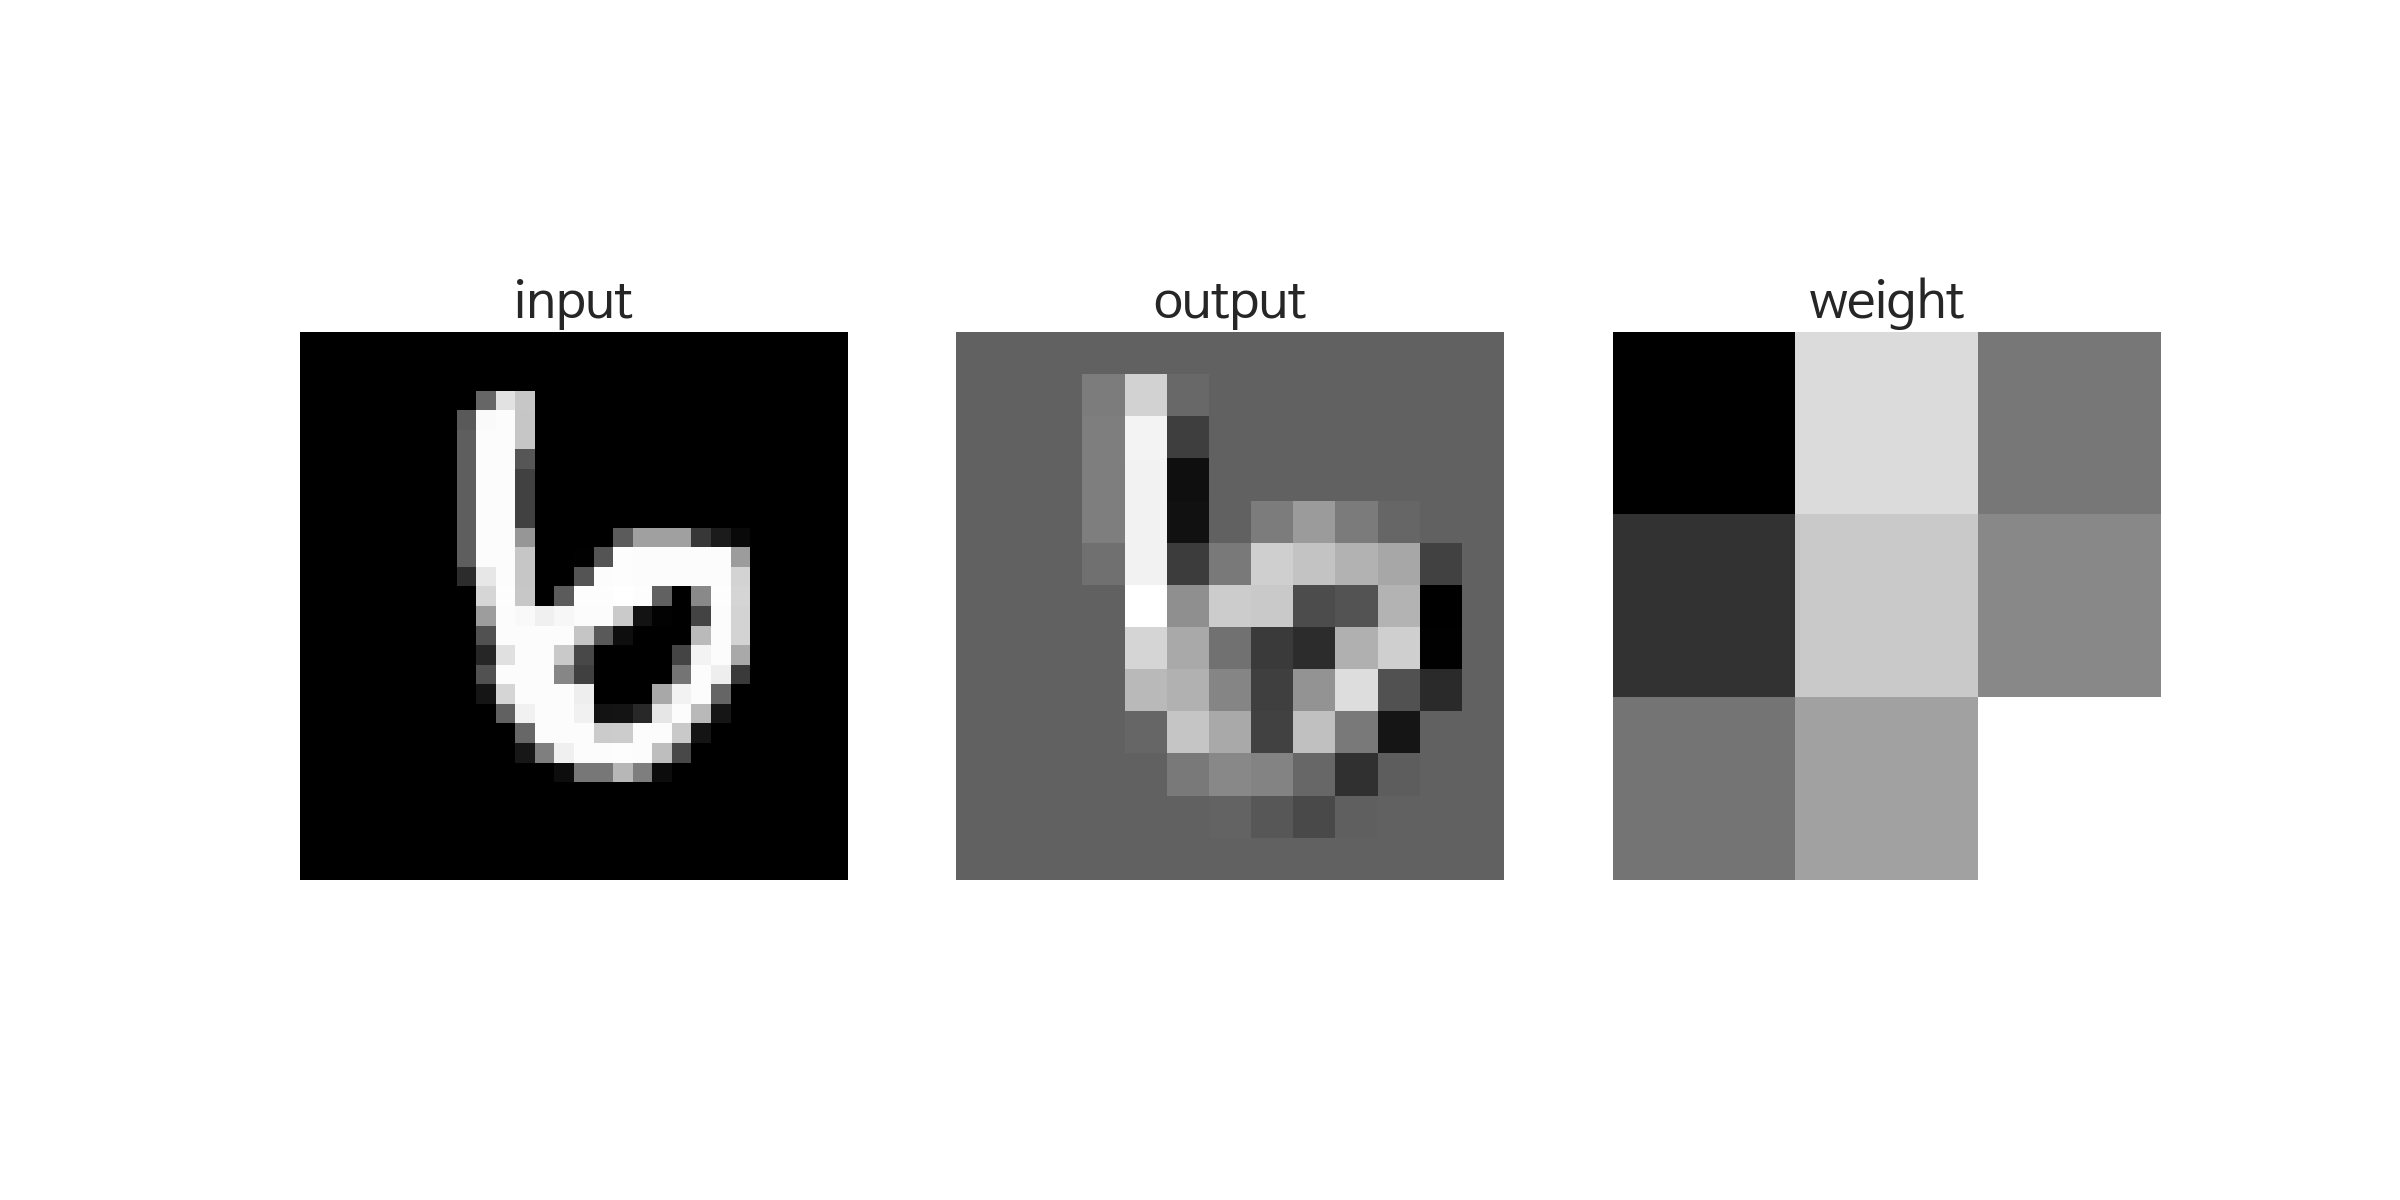
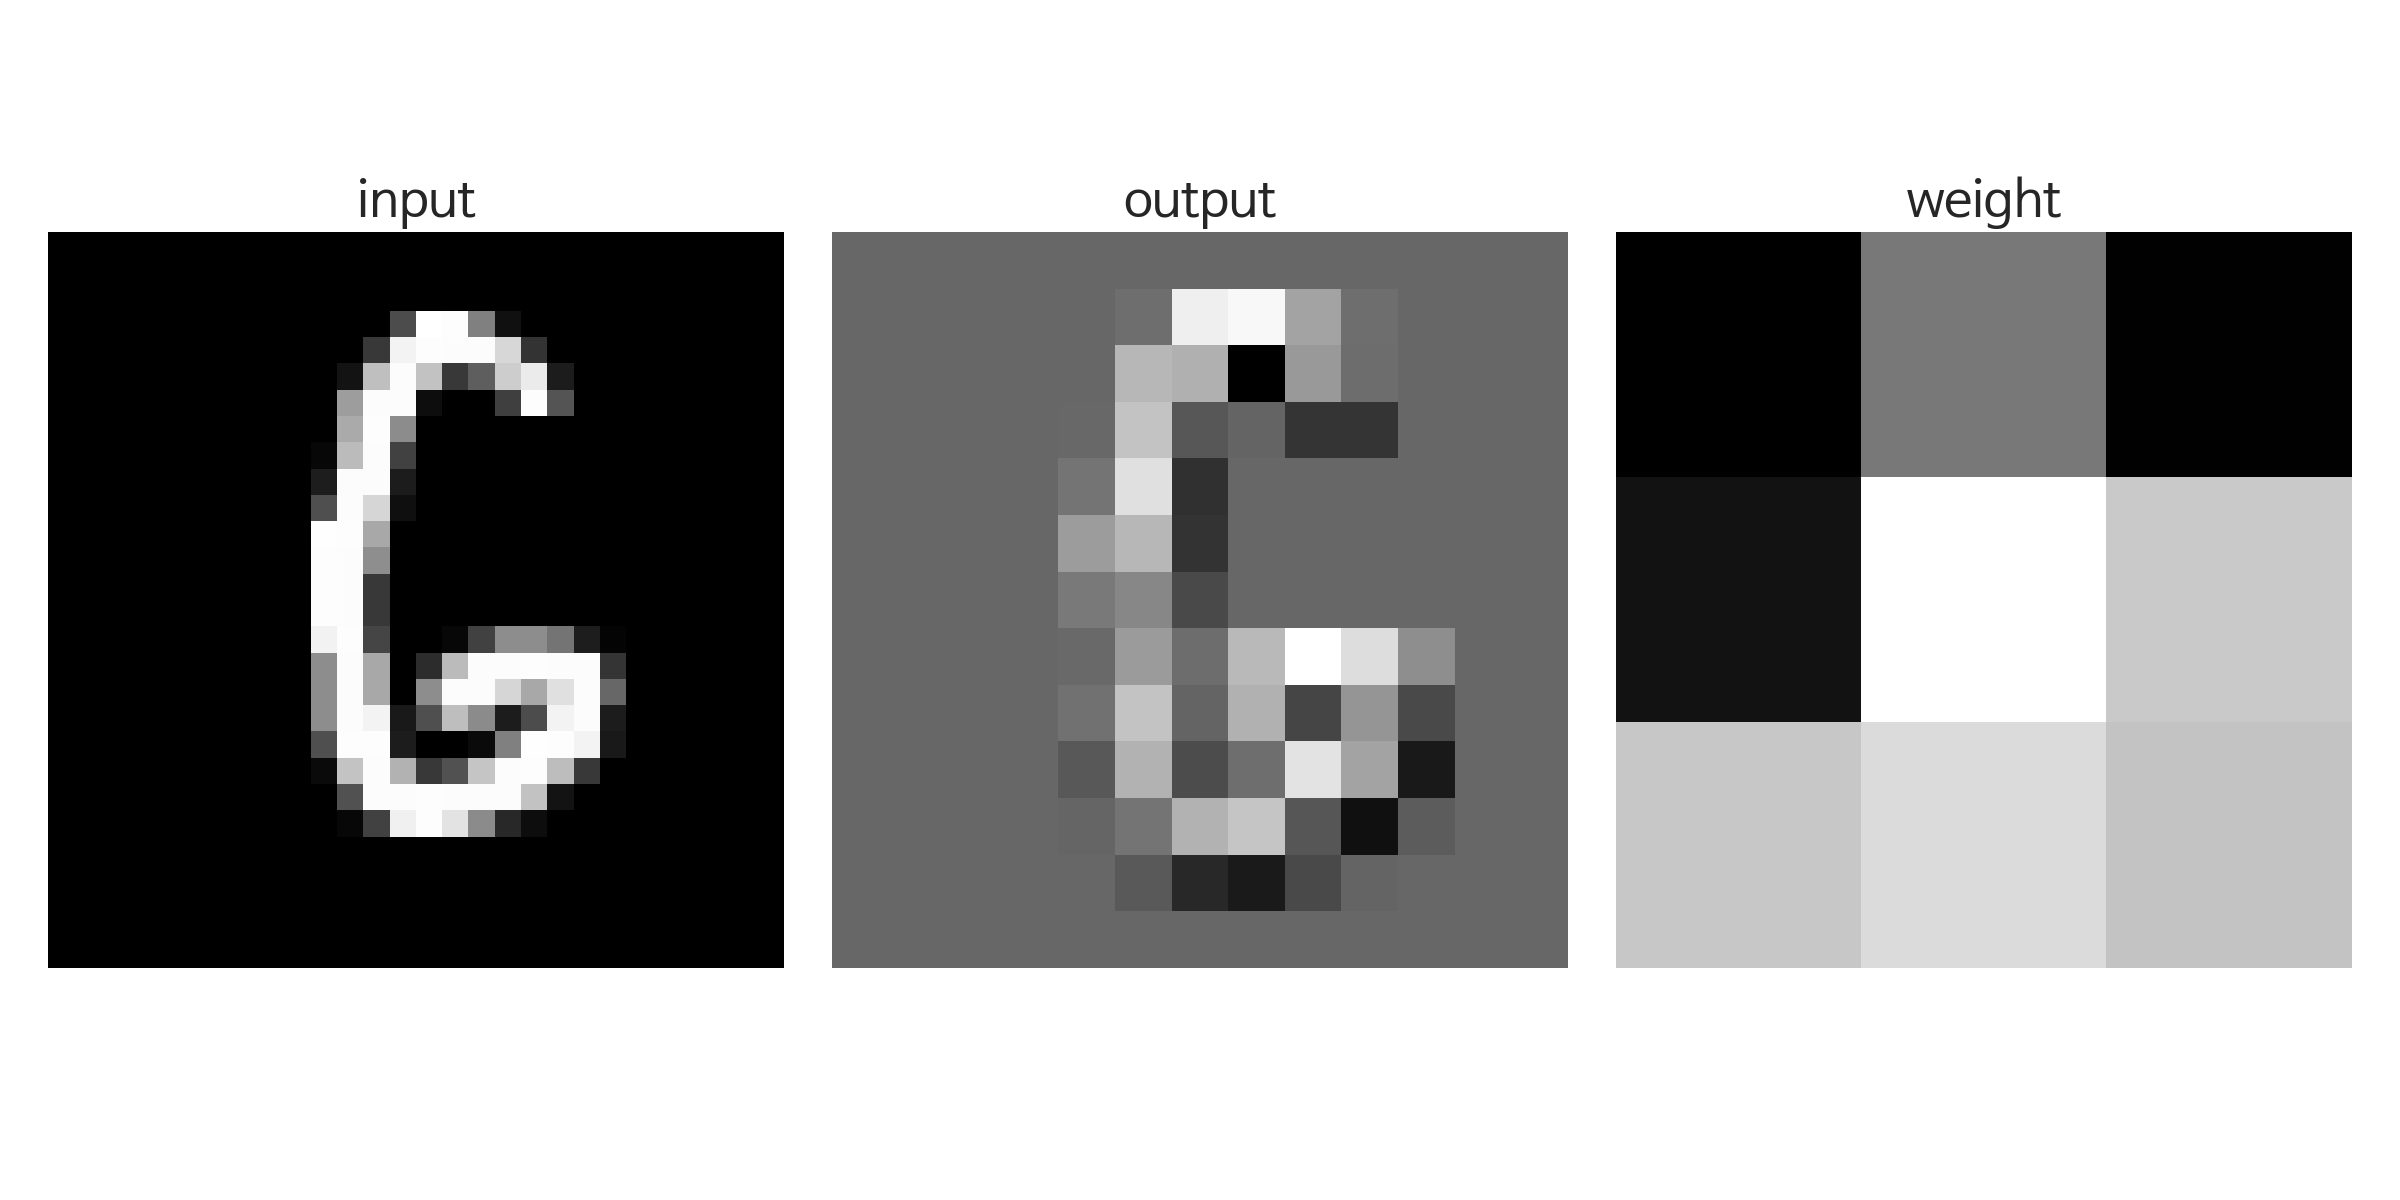
mnist

diff --git a/src/03 torch_tutorial_02.py b/src/03 torch_tutorial_02.py
@@ -100,3 +100,63 @@ plt.title("weight", fontsize=18)
 plt.imshow(weight[0, 0, :, :].detach().cpu().numpy(), cmap="gray")
 plt.tight_layout()
 plt.savefig("images/mnist_conv")
+
+pool = F.max_pool2d(y, kernel_size=2, stride=2)
+print(pool.shape)
+pool = nn.MaxPool2d(kernel_size=2, stride=2)
+pool = pool(y)
+print(pool.shape)
+pool = pool.detach().numpy()
+print(pool.shape)
+
+plt.figure(figsize=(12, 6))
+plt.subplot(1, 2, 1)
+plt.title("input", fontsize=18)
+plt.imshow(x[0, :, :].detach().cpu().numpy(), cmap="gray")
+plt.subplot(1, 2, 2)
+plt.title("output", fontsize=18)
+plt.imshow(pool[0, :, :], cmap="gray")
+plt.tight_layout()
+plt.savefig("images/mnist_pool")
+
+with torch.no_grad():
+    x = x.view(-1, 28 * 28)
+    x = nn.Linear(784, 10)(x)
+    x = F.softmax(x, dim=1)
+print(x)
+print(np.sum(x.numpy()))
+
+
+class Model(nn.Module):
+    def __init__(self):
+        super(Model, self).__init__()
+        self.layer1 = nn.Sequential(
+            nn.Conv2d(in_channels=1, out_channels=16, kernel_size=3, stride=2),
+            nn.ReLU(),
+            nn.MaxPool2d(kernel_size=2, stride=2),
+        )
+        self.layer2 = nn.Sequential(
+            nn.Conv2d(in_channels=16, out_channels=32, kernel_size=3, stride=2),
+            nn.ReLU(),
+            nn.MaxPool2d(kernel_size=2, stride=2),
+        )
+        self.layer3 = nn.Sequential(
+            nn.Linear(in_features=32 * 7 * 7, out_features=10, bias=True),
+            nn.ReLU(),
+        )
+
+    def forward(self, x):
+        x = self.layer1(x)
+        x = self.layer2(x)
+        x = x.view(x.shape[0], -1)
+        x = self.layer3(x)
+        return x
+
+
+model = Model()
+print(list(model.children()))
+print(list(model.modules()))
+
+# x = torch.tensor(images[0].unsqueeze(dim=0), dtype=torch.float32)
+# y = model(x)
+# print(y)
